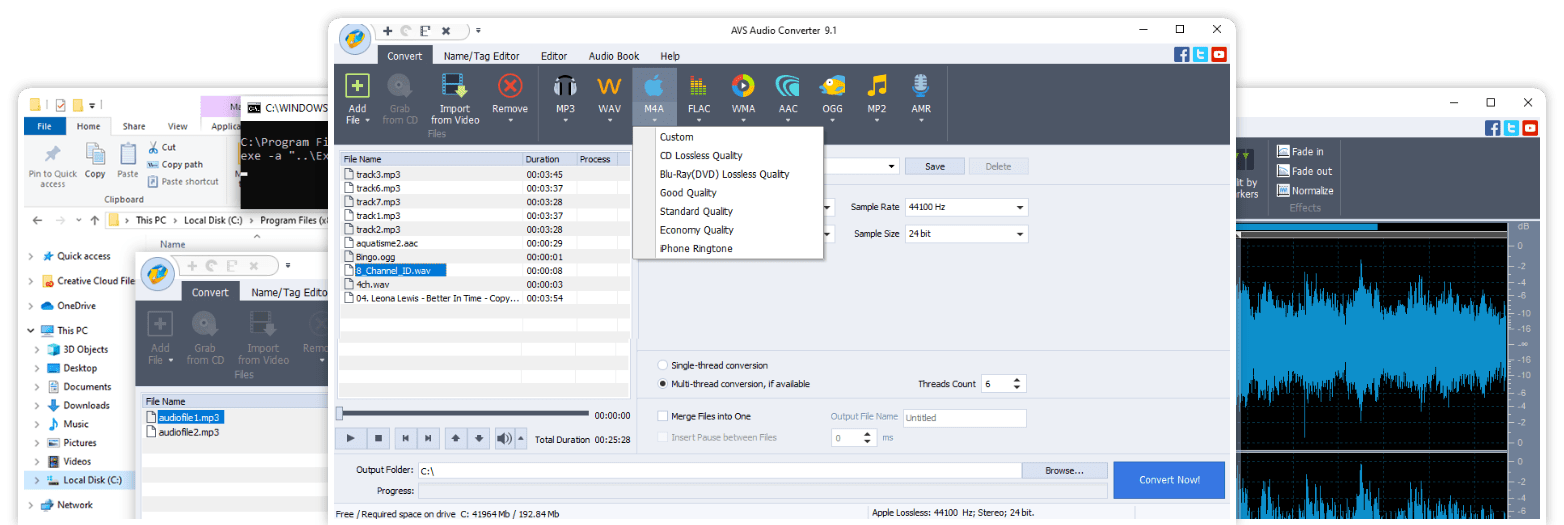
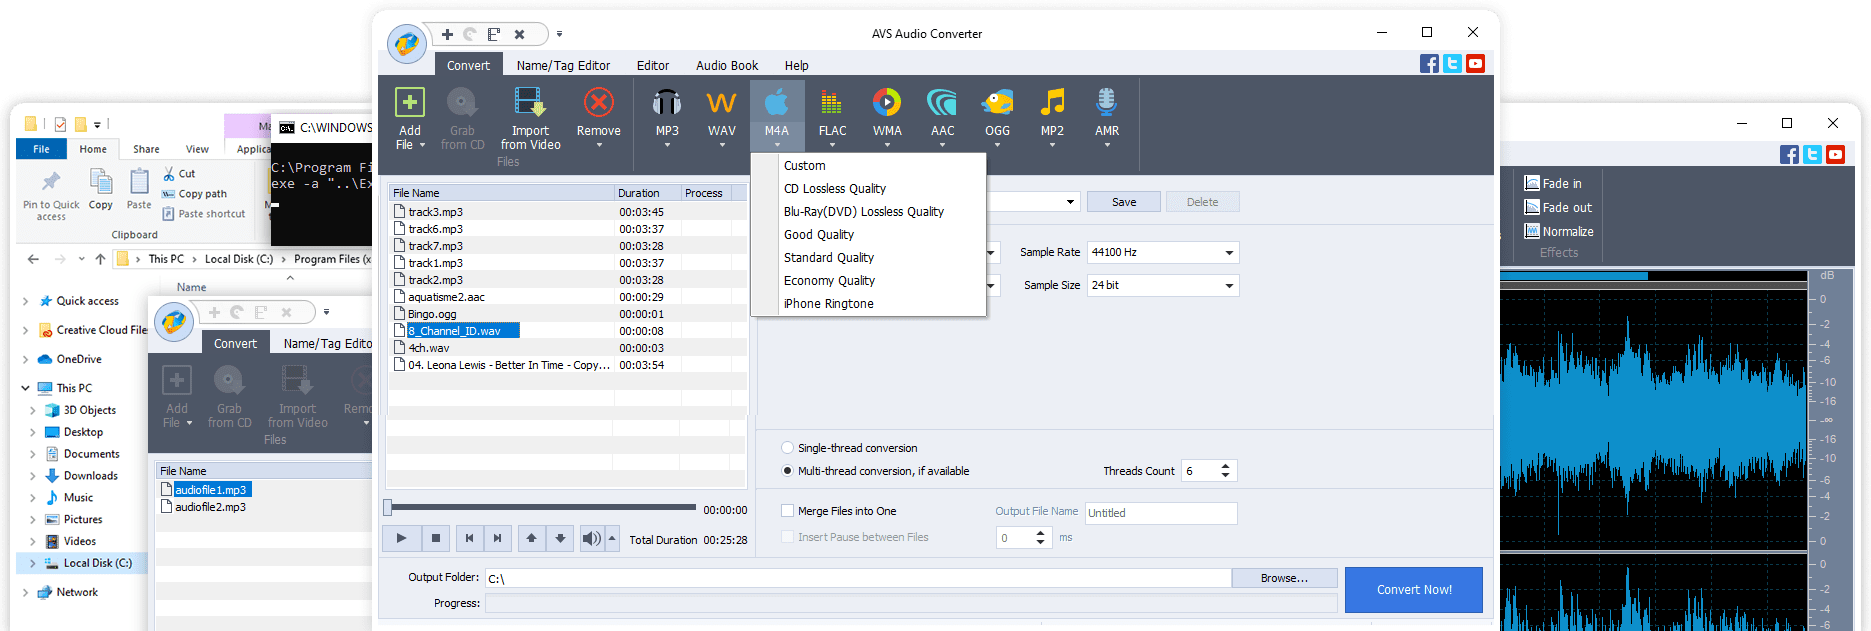
Updated images on audio converter page

Changed region(s): [[0.0, 0.0305, 1.0, 1.0], [0.5217, 0.3657, 0.6445, 0.4876], [0.5831, 0.701, 0.6752, 0.7619]]

diff --git a/Client/src/pages/avs-audio-converter.aspx.js b/Client/src/pages/avs-audio-converter.aspx.js
@@ -84,7 +84,7 @@ render(){
             <ContentRowItem 
                 id="overview"
                 imgLeft={true}
-                imageName="audio_converter_slider2.png"
+                imageName="audio_converter_slider2.jpg"
                 headerText="Convert and edit all key audio formats"    
             >
               <Text className="ListItem">Convert MP3, WMA, WAV, M4A, AMR, OGG, ALAC, FLAC, AC3, MP2, etc.</Text>
@@ -94,7 +94,7 @@ render(){
 
             <ContentRowItem 
                 imgLeft={false}
-                imageName="audio_converter_slider3.png"
+                imageName="audio_converter_slider3.jpg"
                 headerText="Create audio files for any purpose."   
             >
               <Text className="ListItem">Create Audiobooks. Convert your audio tracks to M4B format, divide them into chapters and add bookmarks</Text>
@@ -104,7 +104,7 @@ render(){
 
             <ContentRowItem 
               imgLeft={true}
-              imageName="audio_converter_bath.png"
+              imageName="audio_converter_bath.jpg"
               headerText="Convert audio files in bulk"    
             >
               <Text className="ListItem">Use a batch mode to convert or compress a large number of audio files at once</Text>
@@ -134,8 +134,8 @@ render(){
           </div>
           <Text id="screenshotsCarousel" className="carouselHeader" as="h2">AVS Audio Converter 9.1</Text>
           <ScreenshotsCarousel 
-            imageNames={["audio_converter_slider1.png", "audio_converter_slider2.png", "audio_converter_slider3.png", "audio_converter_bath.png" ]}
-            imageNamesPopup={["audio_converter_slider1@2x.png", "audio_converter_slider2@2x.png", "audio_converter_slider3@2x.png", "audio_converter_slider4@2x.png"]}
+            imageNames={["audio_converter_slider1.jpg", "audio_converter_slider2.jpg", "audio_converter_slider3.jpg", "audio_converter_bath.jpg" ]}
+            imageNamesPopup={["audio_converter_slider1.jpg", "audio_converter_slider2.jpg", "audio_converter_slider3.jpg", "audio_converter_bath.jpg"]}
             altText={["slideCarousel1", "slideCarousel2", "slideCarousel3", "slideCarousel4"]}
             
           />
